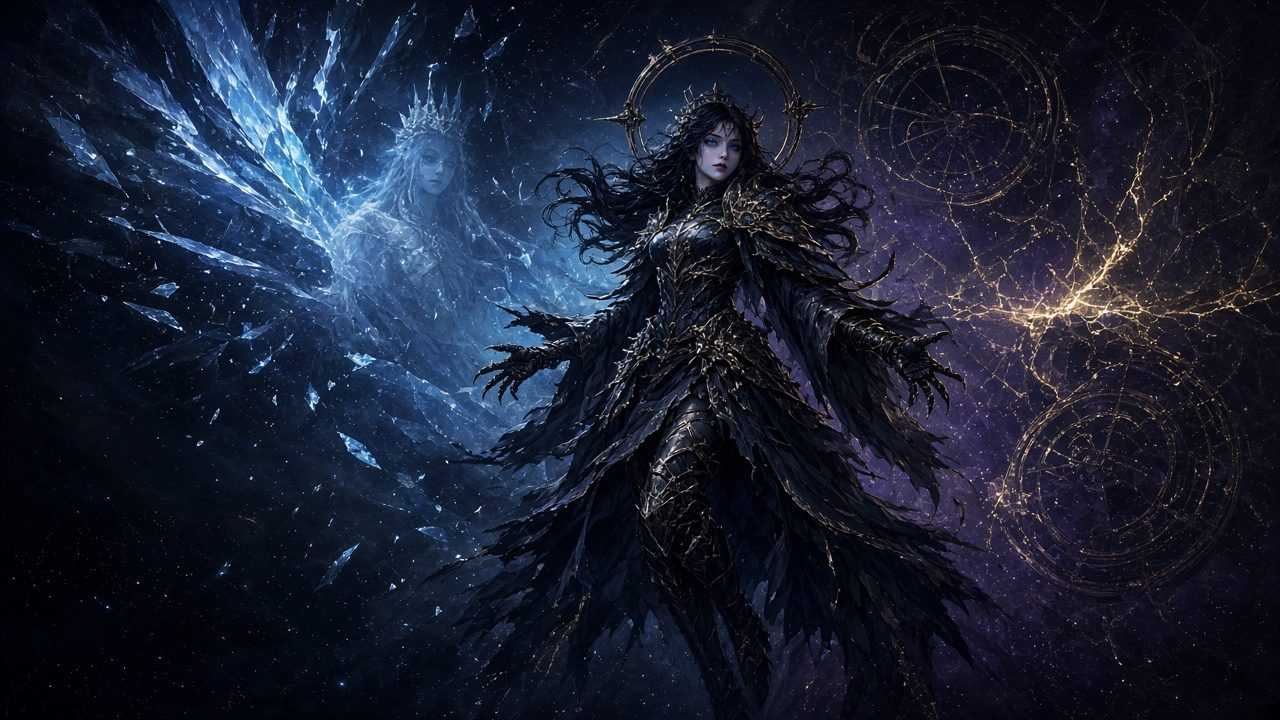
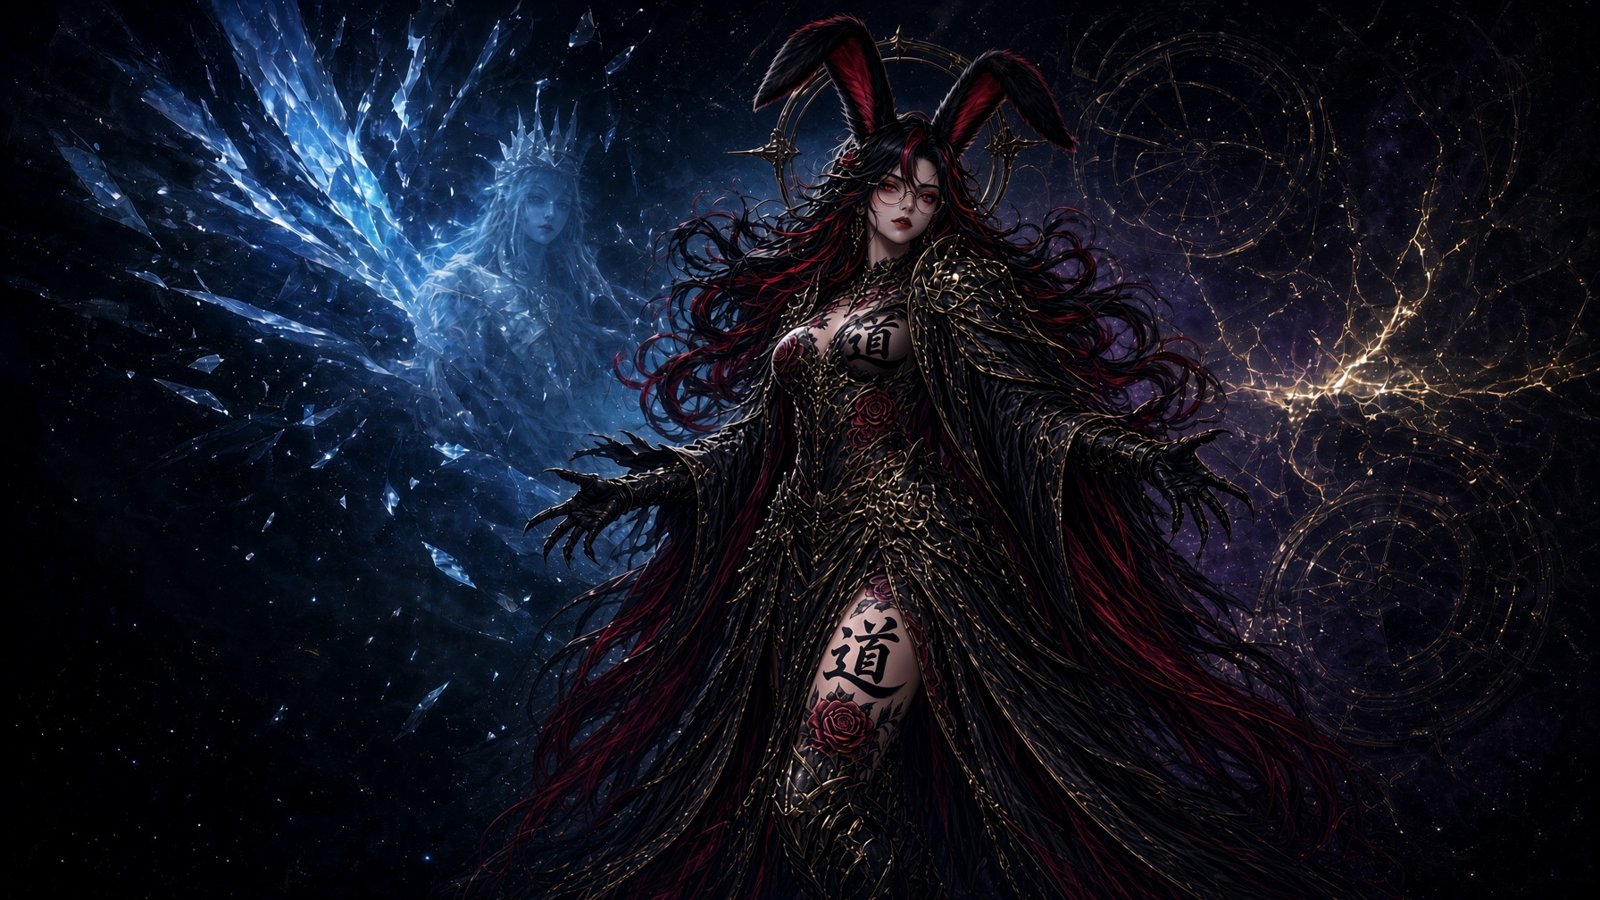
FRU-Seite Stand 20.11.2026 (Daten bis 19.11.2026, 290 Pulls, 14 Abende)

diff --git a/index.html b/index.html
@@ -28,10 +28,10 @@
   </div>
 </header>
 <main id="main" class="wrap">
-  <section class="hero" aria-label="Fan-Art (KI-generiert): Orakel der Finsternis">
-    <img src="assets/hero.jpg" alt="Fan-Art (KI-generiert): Orakel der Finsternis" width="1280" height="360">
+  <section class="hero" aria-label="Fan-Art: Orakel der Finsternis">
+    <img src="assets/hero.jpg?v=kami2" alt="Fan-Art: Orakel der Finsternis" width="1280" height="360">
     <div class="hero-overlay" aria-hidden="true"></div>
-    <p class="hero-cap">Fan-Art (KI-generiert): Orakel der Finsternis</p>
+    <p class="hero-cap">Fan-Art: Orakel der Finsternis</p>
   </section>
   <h1>Static-Prog im Überblick</h1>
   <p class="lede">
